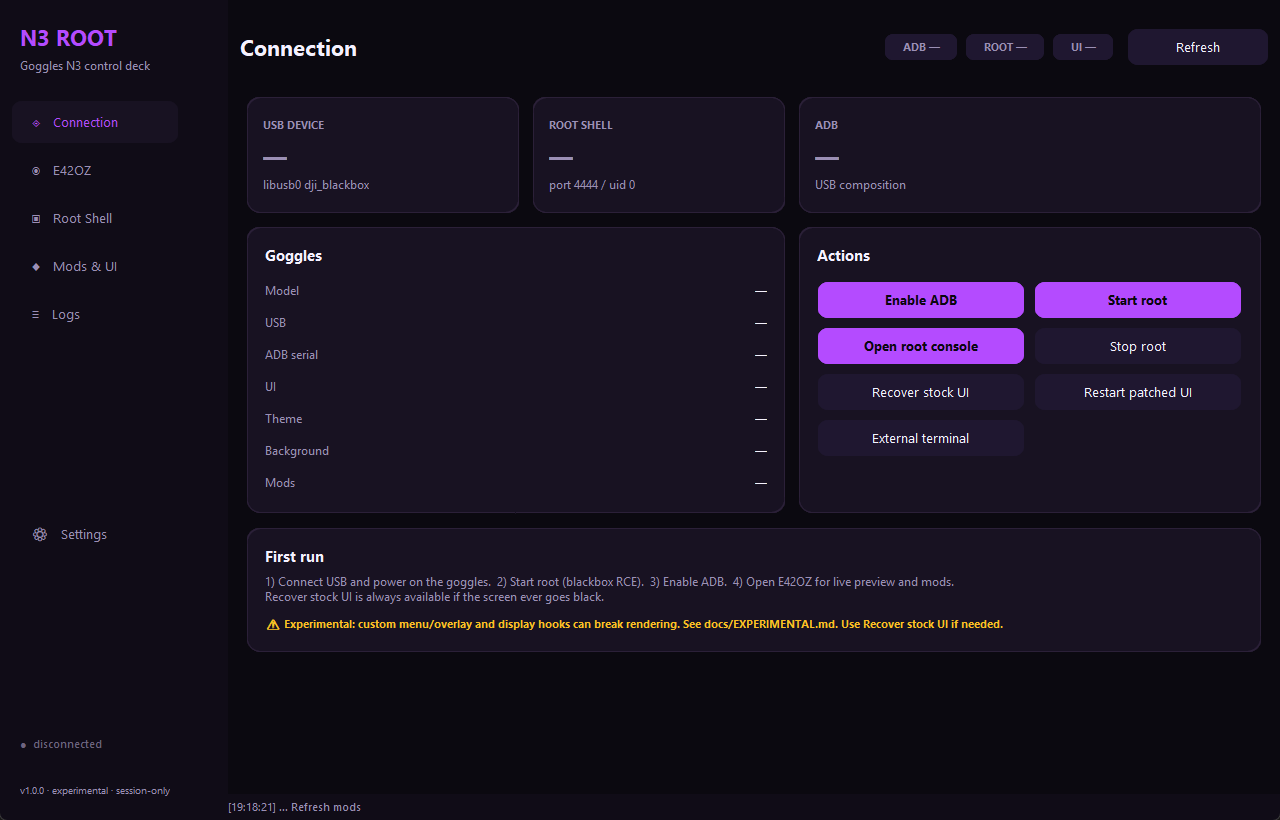
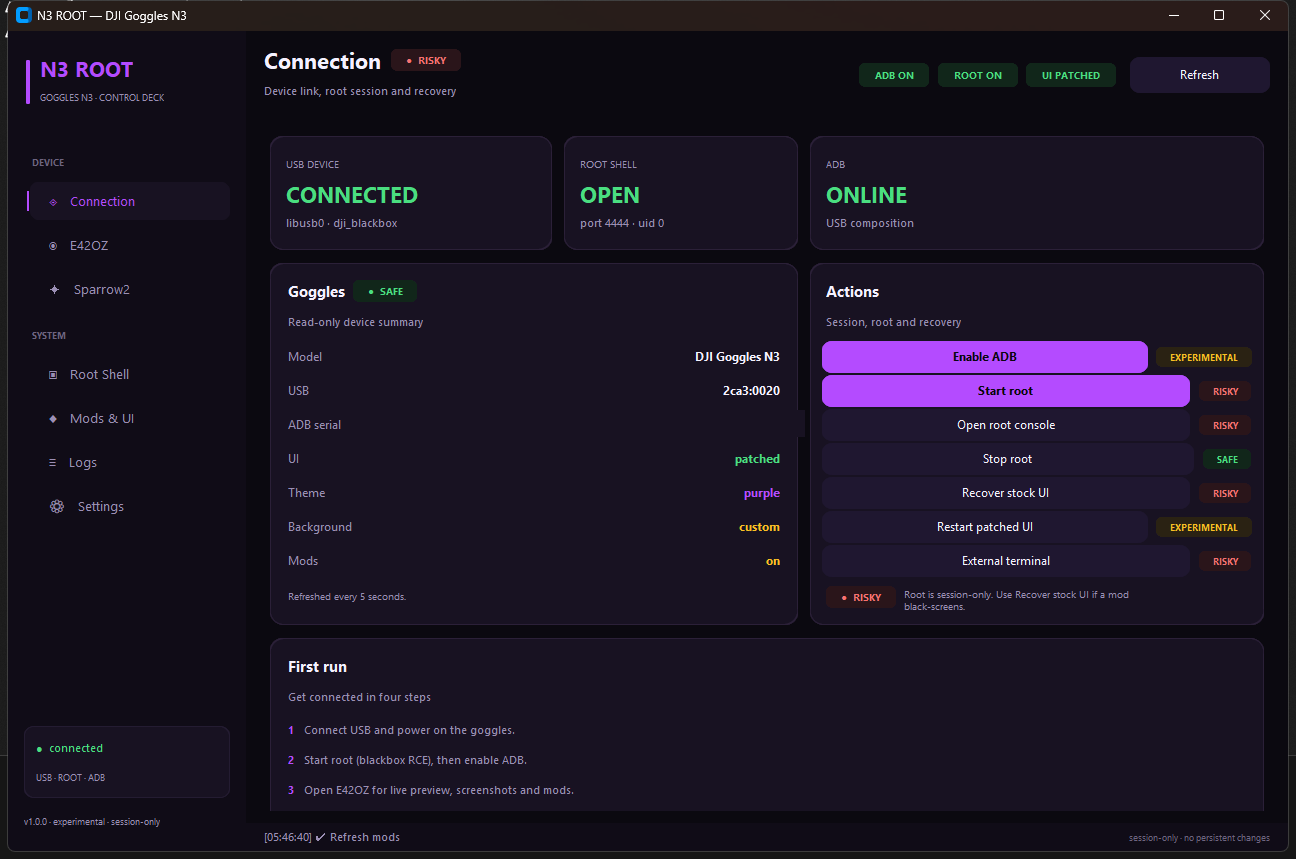
Fix SafetyBadge startup crash and add refreshed ROOT app screenshot

diff --git a/app/ui/components.py b/app/ui/components.py
@@ -45,19 +45,19 @@ class SafetyBadge(ctk.CTkLabel):
         kwargs.setdefault("padx", 7 if compact else 8)
         super().__init__(
             parent,
-            text=self._label(),
+            text=self._badge_text(),
             font=theme.font(9 if compact else 10, True),
             text_color=theme.safety_color(self.level),
             fg_color=theme.safety_bg(self.level),
             **kwargs,
         )
 
-    def _label(self) -> str:
+    def _badge_text(self) -> str:
         return self.level if self.compact else "●  " + self.level
 
     def set_level(self, level: str) -> None:
         self.level = normalize_level(level)
-        self.configure(text=self._label(),
+        self.configure(text=self._badge_text(),
                        text_color=theme.safety_color(self.level),
                        fg_color=theme.safety_bg(self.level))
 

diff --git a/README.md b/README.md
@@ -6,6 +6,9 @@ in-goggles menu apps, a live USB debug preview, and an in-goggles app SDK.
 
 ![N3 ROOT connection page](docs/screenshot.png)
 
+*Refreshed control deck: grouped navigation, safety badges, session-only actions,
+and the native E420Z stock-menu panel.*
+
 > **Private repository.** Keep it private. It contains root/exploit research and
 > device-specific notes. Do not publish tokens, DJI binaries, or personal data.
 > Unauthenticated access to the repo, release, and asset returns 404.

diff --git a/docs/screenshots/README.md b/docs/screenshots/README.md
@@ -2,6 +2,7 @@
 
 | File | What |
 |---|---|
+| `app_ui.png` | Refreshed ROOT desktop control deck (Connection page). Also used as the README hero image via `docs/screenshot.png`. |
 | `e420z_sidebar.png` | Stock left sidebar with the new **E420Z** row (native injection). |
 | `e420z_panel.png` | E420Z opens the stock-styled content panel beside the sidebar. |
 | `e420z_panel_list.png` | Panel list with **BAND SCAN** selected after 5-way down. |
